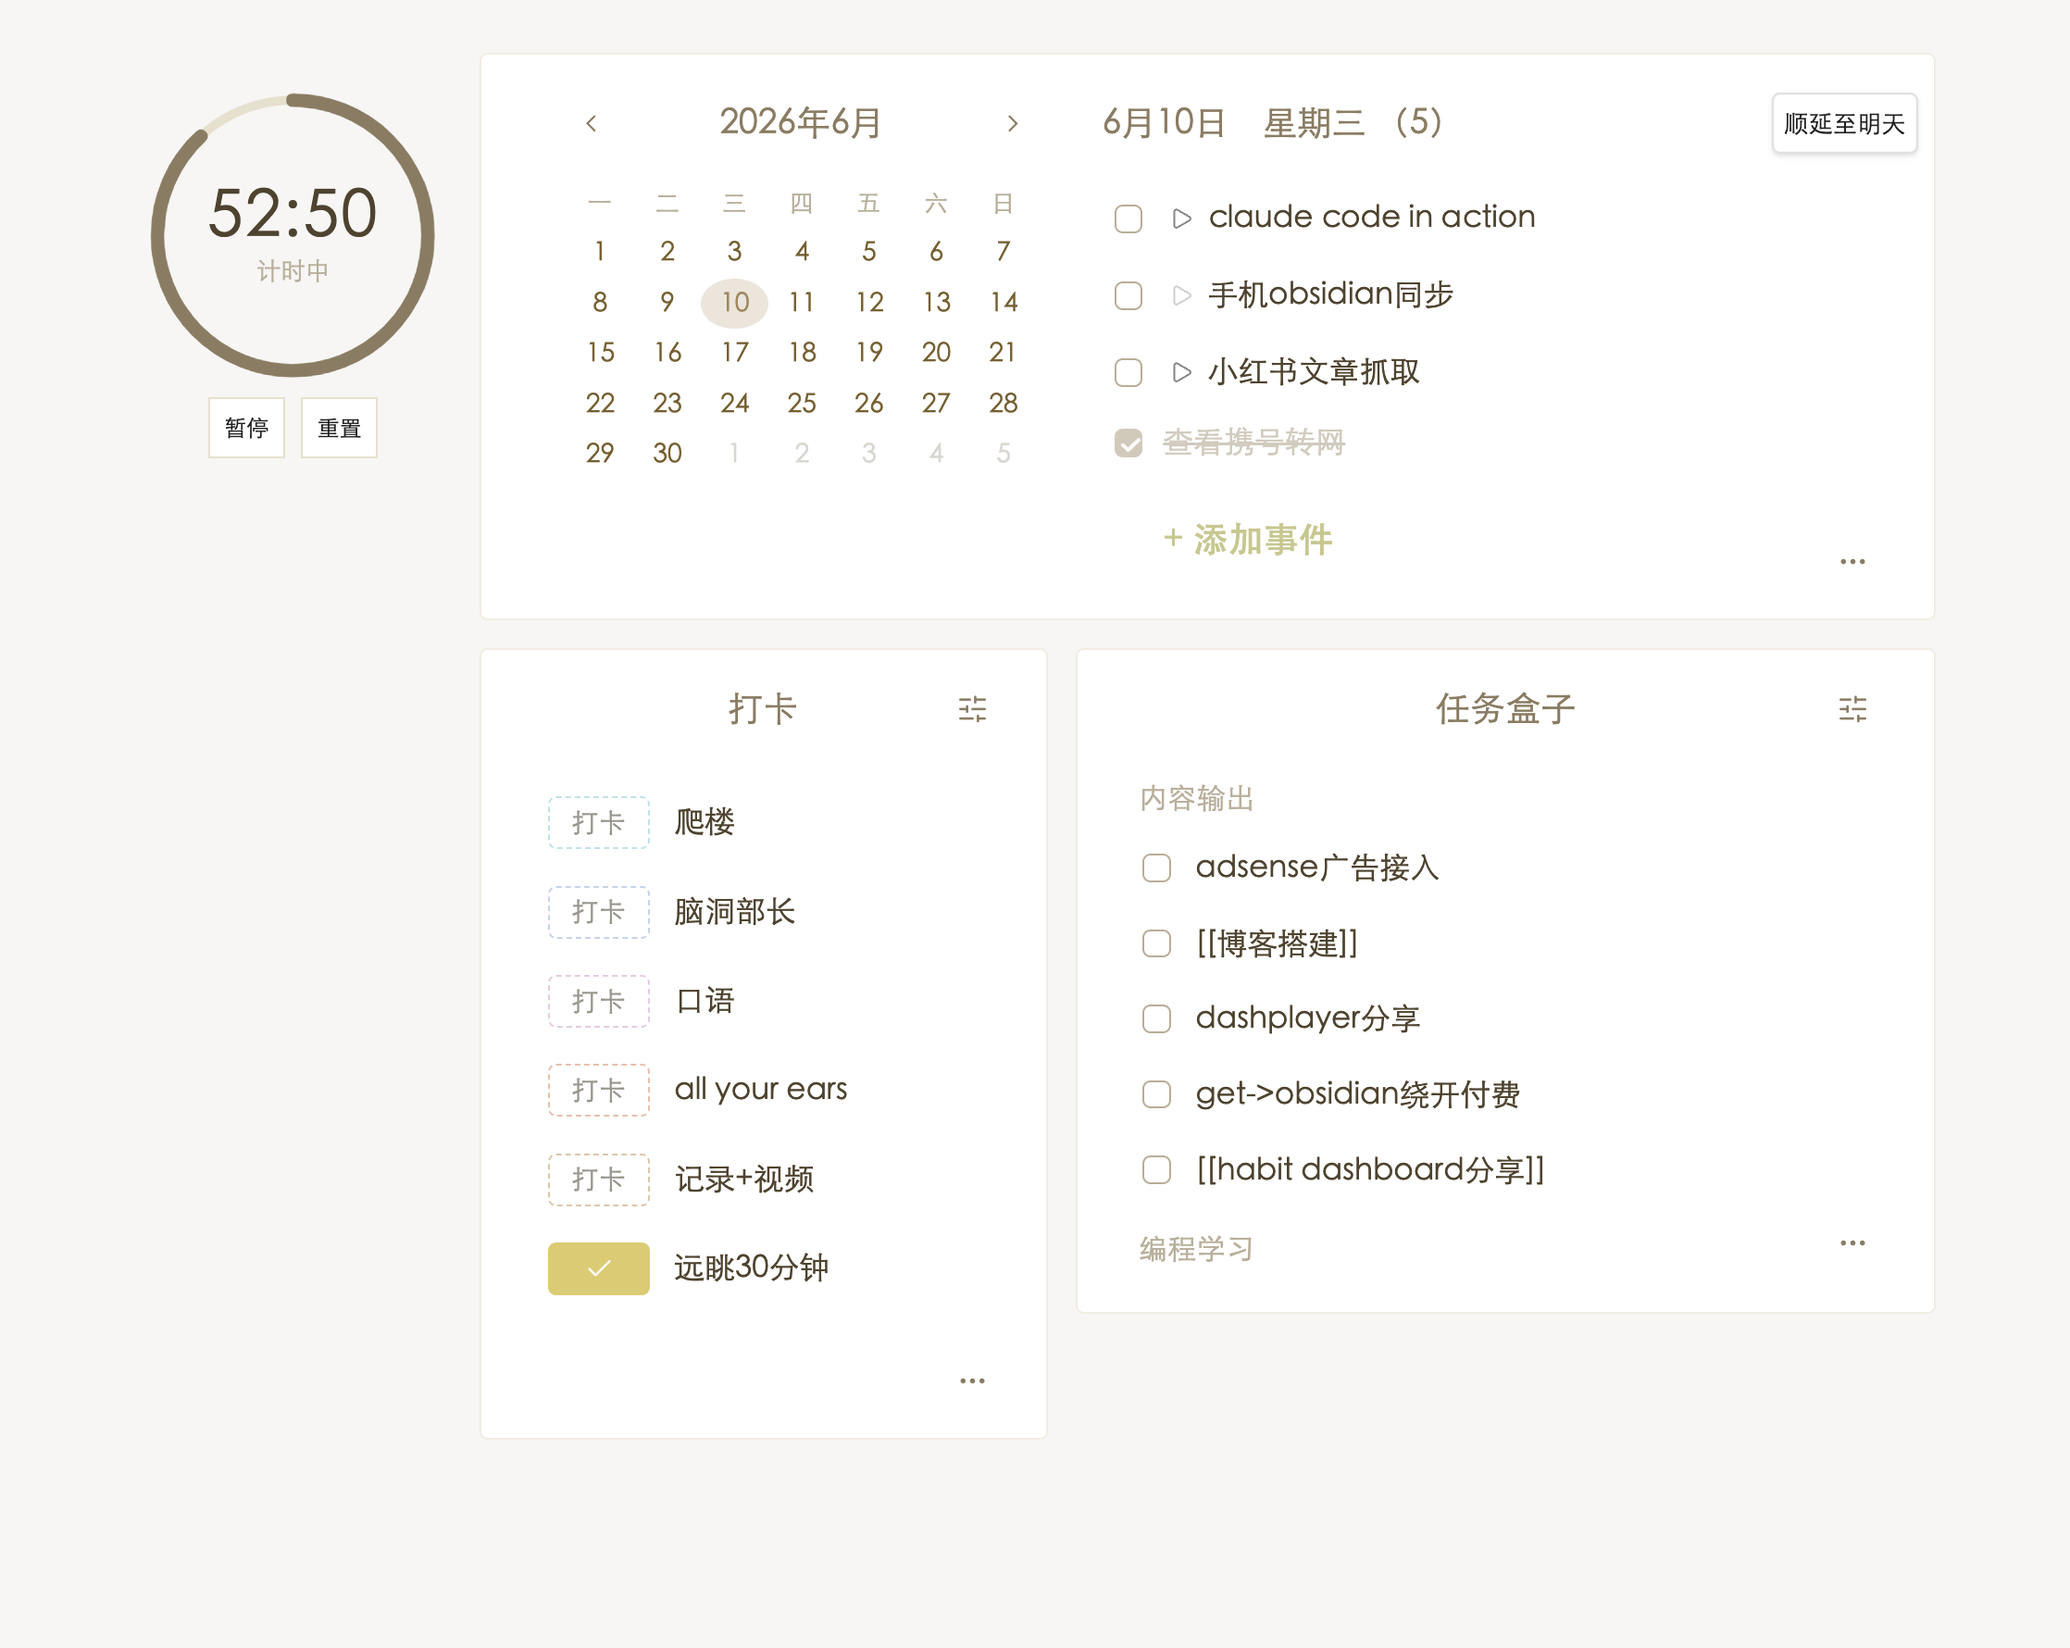
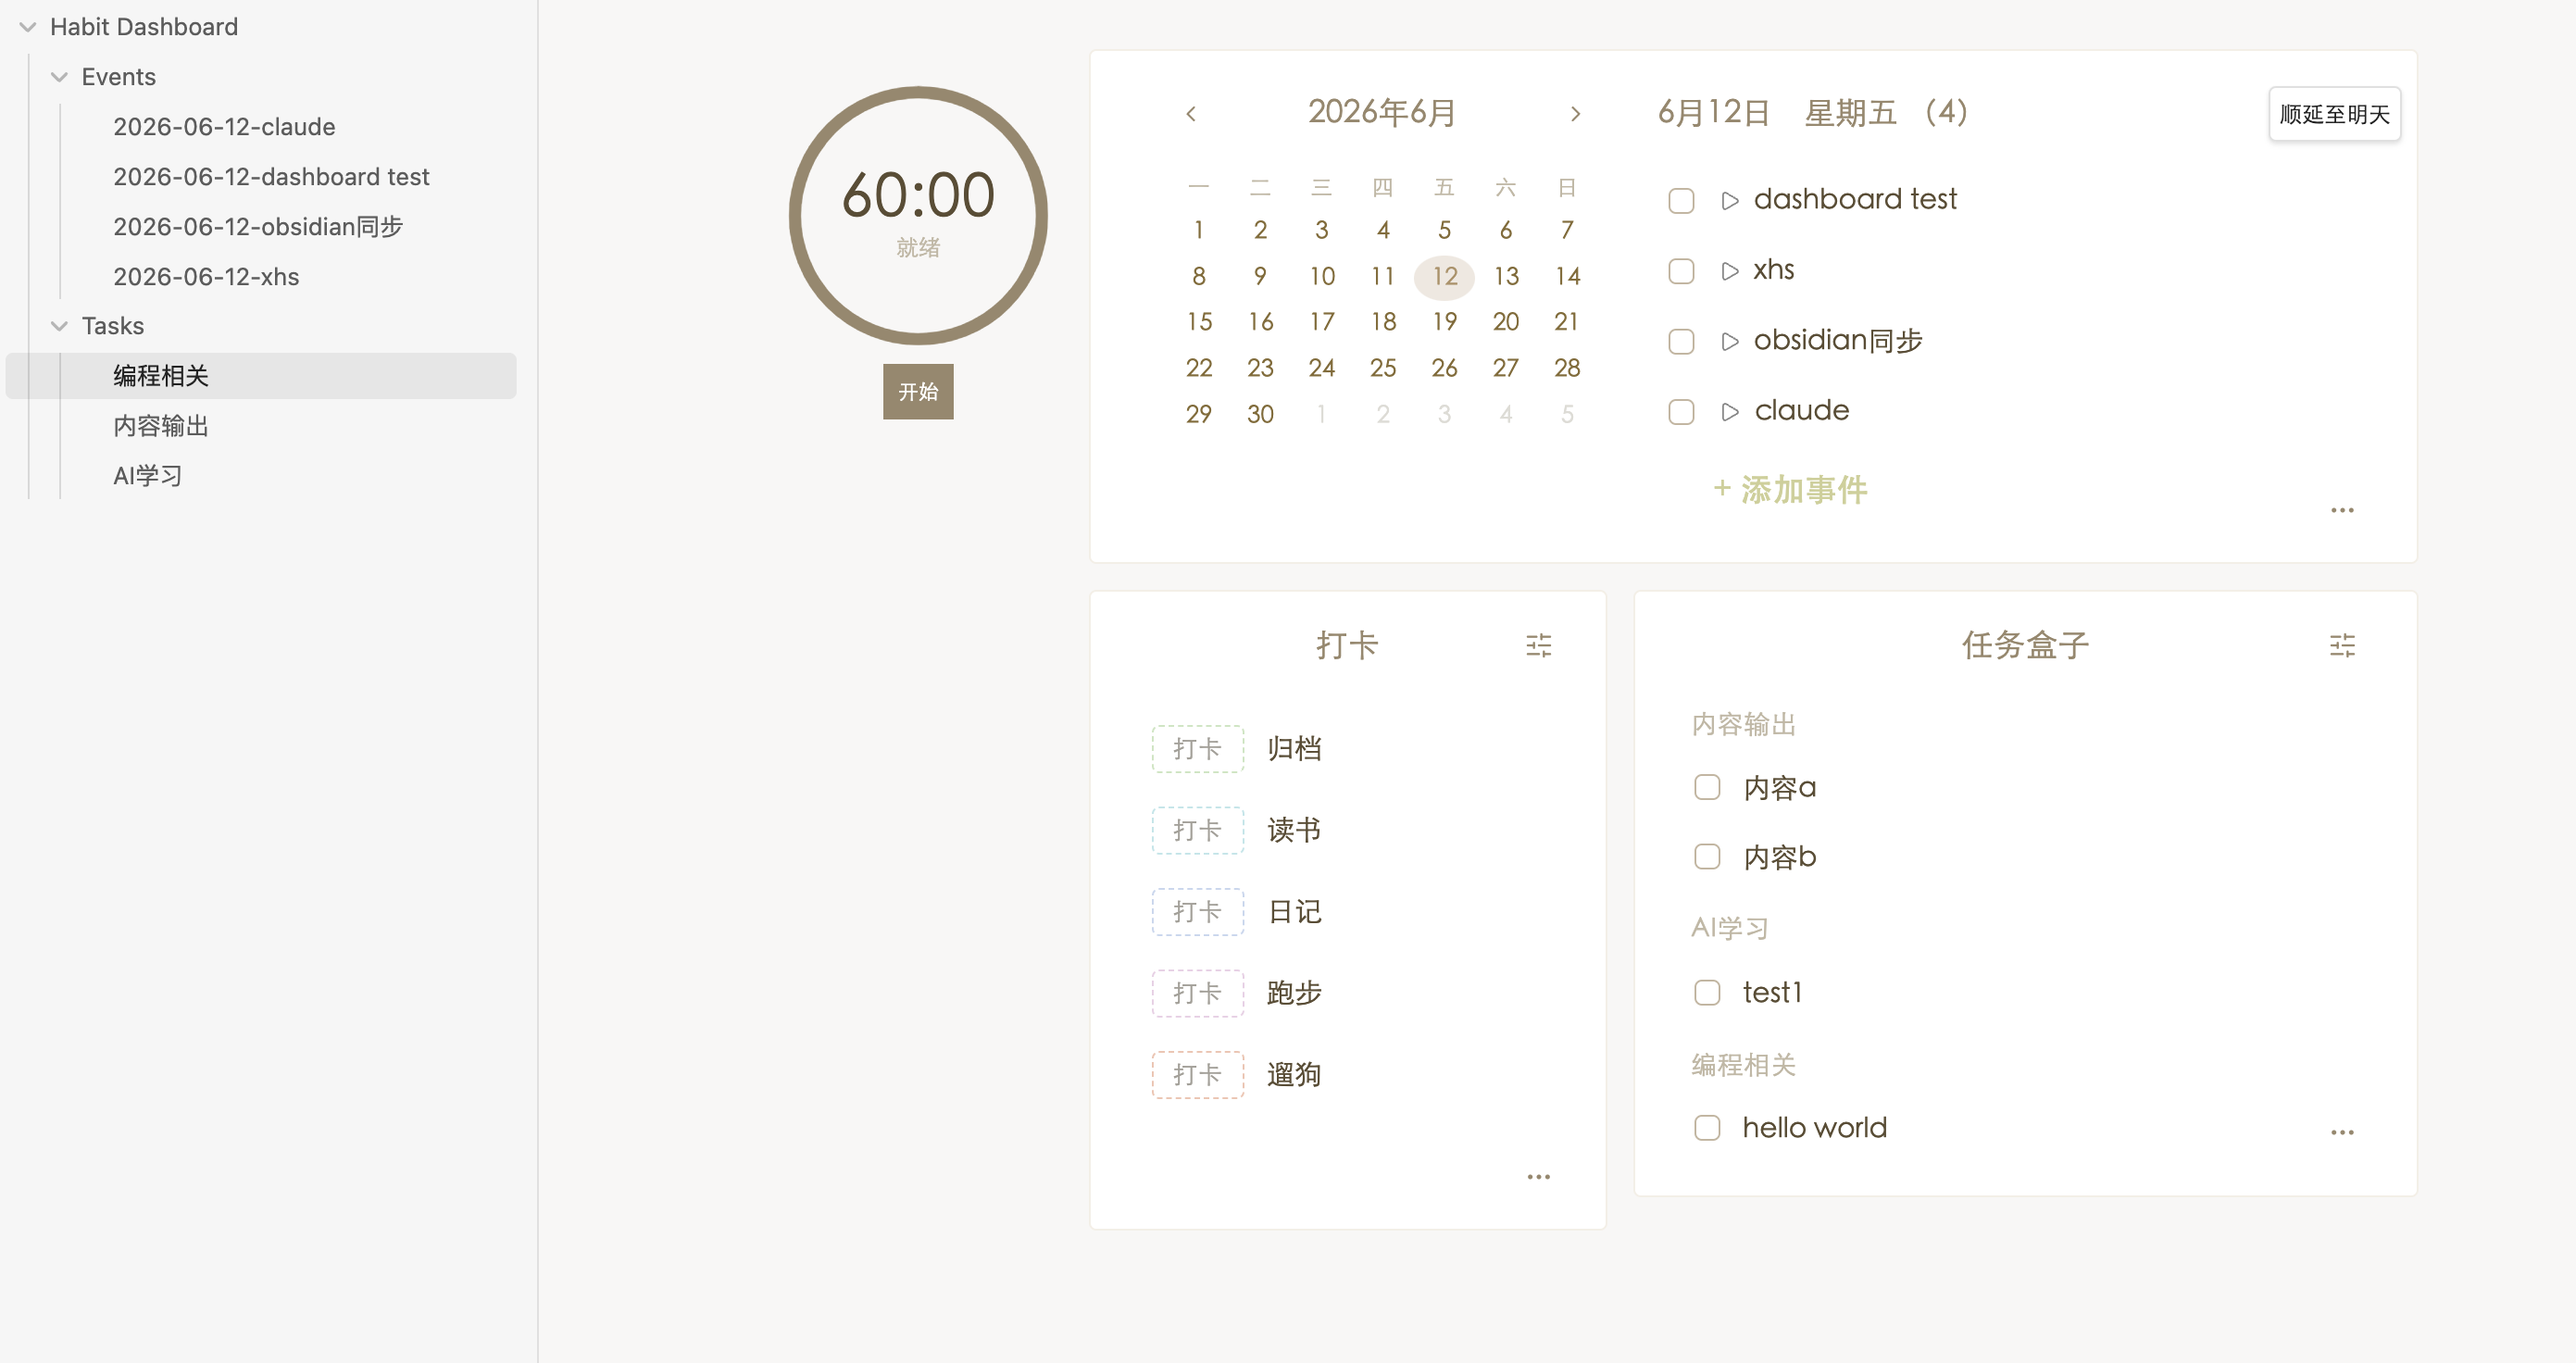
update readme & fix style warning

diff --git a/lib/i18n.js b/lib/i18n.js
@@ -152,8 +152,8 @@ const I18N = {
     "settings.heading": "Habit Dashboard 设置",
     "settings.tipsTitle": "Tips",
     "settings.tipsLines": "支持移动端和桌面端\n桌面端，输入事件/任务时，可shift+回车换行\n移动端，每月计划在任务页面内（如果开启了每月计划）\n移动端，小日历切换日期，将同时切换打卡页面的数据\n桌面端右键日期标题可回到当前，移动端长按日期标题回到当前",
-    "settings.tipDonate": "https://yorigo77.github.io",
-    "settings.donateUrl": "https://yorigo77.github.io",
+    "settings.tipDonate": "https://ghh-l-djl.github.io",
+    "settings.donateUrl": "https://ghh-l-djl.github.io",
     "settings.donate": "打赏",
     "settings.general": "常规设置",
     "settings.language": "界面语言",
@@ -336,8 +336,8 @@ const I18N = {
     "settings.heading": "Habit Dashboard Settings",
     "settings.tipsTitle": "Tips",
     "settings.tipsLines": "Works on mobile and desktop.\nDesktop: when entering an event or task, Shift+Enter inserts a new line.\nMobile: monthly planner appears on the Tasks tab when monthly planner is enabled.\nMobile: changing the date in the mini calendar also updates data on the Trackers tab.\nDesktop: right-click the date header to return to today; mobile: long-press the date header.",
-    "settings.tipDonate": "https://yorigo77.github.io",
-    "settings.donateUrl": "https://yorigo77.github.io",
+    "settings.tipDonate": "https://ghh-l-djl.github.io",
+    "settings.donateUrl": "https://ghh-l-djl.github.io",
     "settings.donate": "Donate",
     "settings.general": "General",
     "settings.language": "Interface language",

diff --git a/main.js b/main.js
@@ -316,8 +316,8 @@ const I18N = {
     "settings.heading": "Habit Dashboard 设置",
     "settings.tipsTitle": "Tips",
     "settings.tipsLines": "支持移动端和桌面端\n桌面端，输入事件/任务时，可shift+回车换行\n移动端，每月计划在任务页面内（如果开启了每月计划）\n移动端，小日历切换日期，将同时切换打卡页面的数据\n桌面端右键日期标题可回到当前，移动端长按日期标题回到当前",
-    "settings.tipDonate": "https://yorigo77.github.io",
-    "settings.donateUrl": "https://yorigo77.github.io",
+    "settings.tipDonate": "https://ghh-l-djl.github.io",
+    "settings.donateUrl": "https://ghh-l-djl.github.io",
     "settings.donate": "打赏",
     "settings.general": "常规设置",
     "settings.language": "界面语言",
@@ -500,8 +500,8 @@ const I18N = {
     "settings.heading": "Habit Dashboard Settings",
     "settings.tipsTitle": "Tips",
     "settings.tipsLines": "Works on mobile and desktop.\nDesktop: when entering an event or task, Shift+Enter inserts a new line.\nMobile: monthly planner appears on the Tasks tab when monthly planner is enabled.\nMobile: changing the date in the mini calendar also updates data on the Trackers tab.\nDesktop: right-click the date header to return to today; mobile: long-press the date header.",
-    "settings.tipDonate": "https://yorigo77.github.io",
-    "settings.donateUrl": "https://yorigo77.github.io",
+    "settings.tipDonate": "https://ghh-l-djl.github.io",
+    "settings.donateUrl": "https://ghh-l-djl.github.io",
     "settings.donate": "Donate",
     "settings.general": "General",
     "settings.language": "Interface language",

diff --git a/styles.css b/styles.css
@@ -56,9 +56,10 @@ body .mod-root .workspace-leaf-content .view-content.yd-dashboard-host .yd-view-
   background-image: none !important;
 }
 
-/* Some themes paint the leaf container, not only .view-content */
-body .workspace-leaf-content:has(> .view-content.yd-dashboard-host),
-body .workspace-leaf-content:has(.view-content.yd-dashboard-host) {
+/* Some themes paint the leaf container, not only .view-content.
+   The view adds yd-dashboard-host to its containerEl, which is the
+   .workspace-leaf-content element itself. */
+body .workspace-leaf-content.yd-dashboard-host {
   background-color: #f8f7f6 !important;
   background-image: none !important;
 }
@@ -2785,8 +2786,7 @@ body.theme-dark .mod-root .workspace-leaf-content .view-content.yd-dashboard-hos
   background-image: none !important;
 }
 
-body.theme-dark .workspace-leaf-content:has(> .view-content.yd-dashboard-host),
-body.theme-dark .workspace-leaf-content:has(.view-content.yd-dashboard-host) {
+body.theme-dark .workspace-leaf-content.yd-dashboard-host {
   background-color: #1c1b19 !important;
   background-image: none !important;
 }

diff --git a/README.md b/README.md
@@ -33,11 +33,11 @@ An Obsidian dashboard plugin that gathers your daily events, data logs, tasks, c
 
 ## Installation
 
-### BRAT (recommended)
+### Community plugins (recommended)
 
-1. Install the [BRAT](https://github.com/TfTHacker/obsidian42-brat) community plugin.
-2. In BRAT settings, choose **Add Beta Plugin** and enter `ghh-l-djl/obsidian-habit-dashboard`.
-3. Enable **Habit Dashboard** in Community plugins.
+1. In Obsidian, open **Settings → Community plugins** and make sure Restricted mode is turned off.
+2. Click **Browse**, search for **Habit Dashboard**, and click **Install**.
+3. Click **Enable** to activate the plugin.
 
 ### Manual install
 
